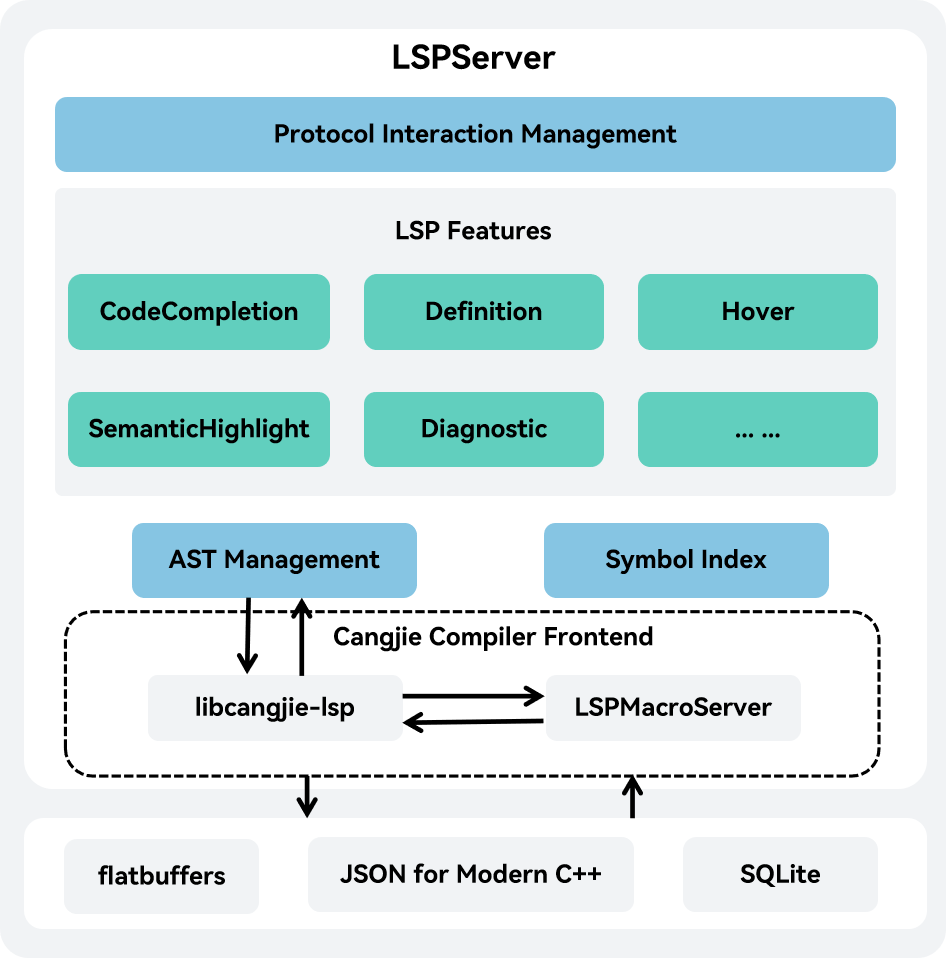
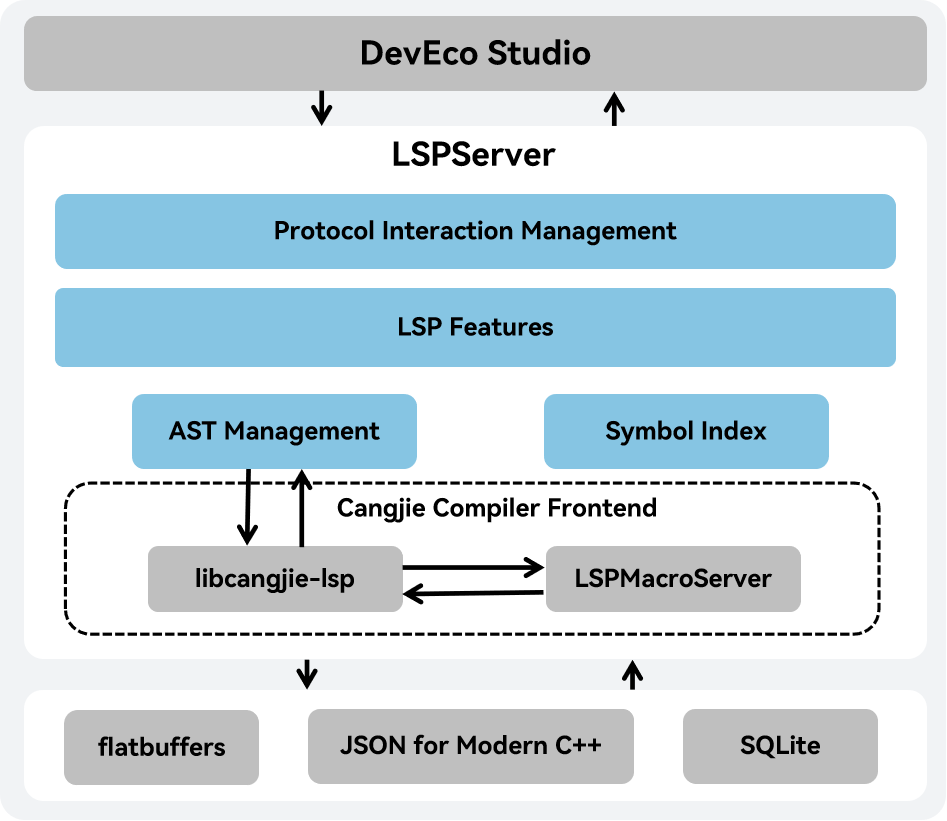
fix: change lsp doc

diff --git a/cangjie-language-server/doc/developer_guide_zh.md b/cangjie-language-server/doc/developer_guide_zh.md
@@ -2,7 +2,7 @@
 
 ## 系统架构
 
-该项目是一个语言服务工具，是在DevEco上提供仓颉语言服务的服务器后端，需要搭配DevEco客户端使用。
+该项目是一个语言服务工具，是在DevEco Studio上提供仓颉语言服务的服务器后端，需要搭配DevEco Studio客户端使用。
 
 这个工程可以编译成一个名为LSPServer的可执行文件。
 
@@ -10,7 +10,20 @@
 
 ![SystemArchitecture](./figures/lsp-架构.png)
 
+如架构图所示：
+
+Protocol交互管理：负责和LSP协议的基本通信与消息处理
+
+LSP特性：实现了代码补全，定义跳转，语法高亮等语言服务功能
+
+AST管理：实现抽象语法树（AST）的构建和管理
+
+符号索引：提供符号索引的生成和修改，提供搜索索引的功能
+
 ## 目录结构
+   
+
+
 
 ```text
 cangjie-language-server/

diff --git a/cangjie-language-server/doc/developer_guide.md b/cangjie-language-server/doc/developer_guide.md
@@ -10,6 +10,16 @@ The system architecture diagram is as follows:
 
 ![SystemArchitecture](./figures/lsp-architecture.png)
 
+As shown in the architecture diagram:
+
+Protocol Interaction Management: Responsible for basic communication with the LSP protocol and message handling.
+
+LSP Features: Implements language server features such as code completion, go to definition, and semantic token highlight.
+
+AST Management: Implements the construction and management of the AST.
+
+Symbol Index: Handles the generation and modification of symbol indexes and offers search functionality.
+
 ## Directory Structure
 
 ```text
